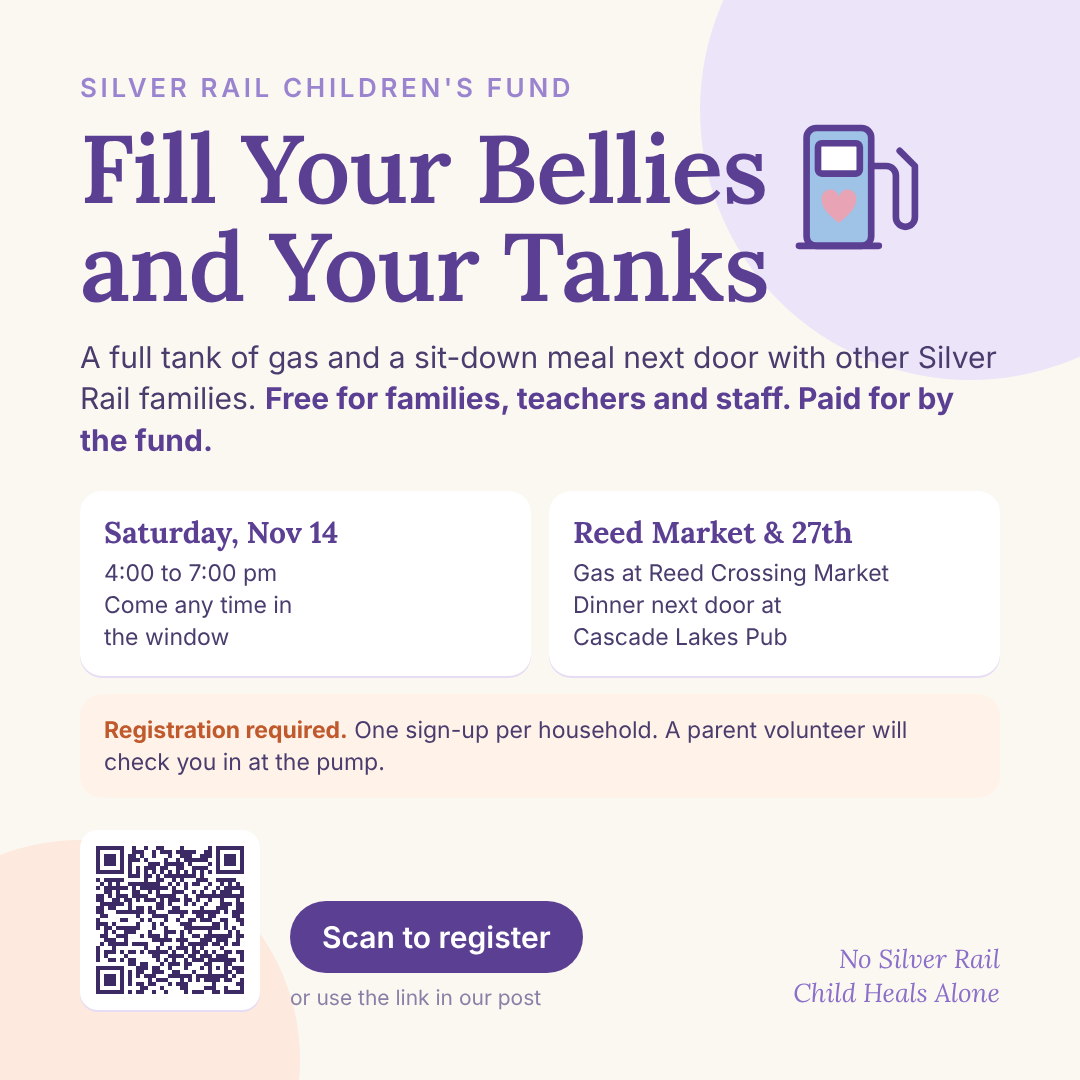
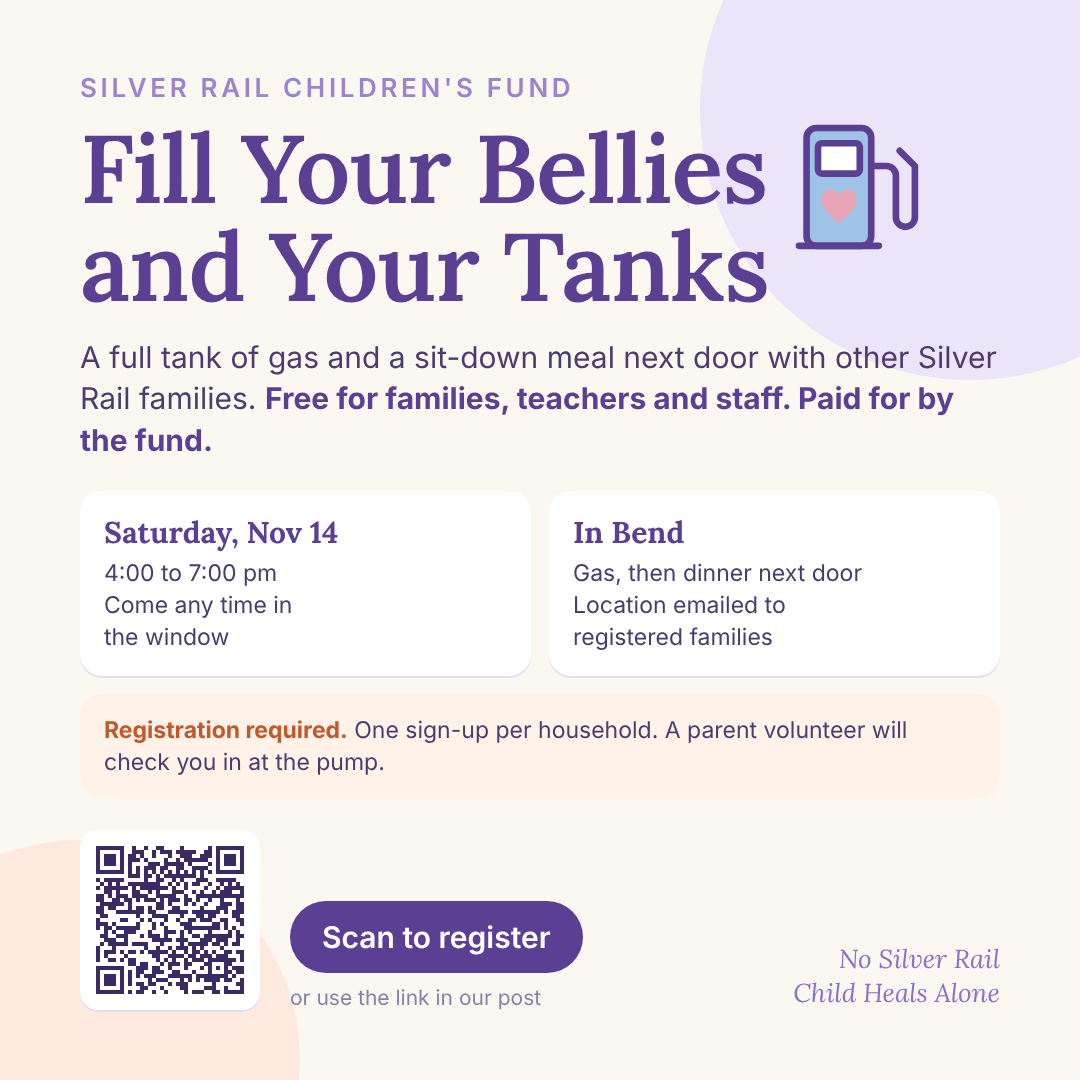
Fill Your Bellies: remove station and pub names/addresses from public pages and graphics
Claude-Session: https://claude.ai/code/session_01H4F1UFNJLbfFA3nSi3aQ8Y

Changed region(s): [[0.5194, 0.4583, 0.825, 0.6111]]

diff --git a/fill-your-tank.html b/fill-your-tank.html
@@ -4,11 +4,11 @@
 <meta charset="utf-8">
 <meta name="viewport" content="width=device-width, initial-scale=1">
 <title>Fill Your Bellies and Your Tanks — Silver Rail Children's Fund</title>
-<meta name="description" content="Saturday, Nov 14, 4 to 7 pm. Registration required. Silver Rail families, teachers and staff fill their gas tank at Reed Crossing Market and share a meal next door at Cascade Lakes Pub on Reed Market in Bend, paid for by the Silver Rail Children's Fund.">
+<meta name="description" content="Saturday, Nov 14, 4 to 7 pm in Bend. Registration required. Silver Rail families, teachers and staff fill their gas tank and share a meal with other Silver Rail families, paid for by the Silver Rail Children's Fund.">
 <meta name="theme-color" content="#5B3F93">
 <link rel="canonical" href="https://silverrailchildrensfund.org/fill-your-tank.html">
 <meta property="og:title" content="Fill Your Bellies and Your Tanks — Silver Rail Children's Fund">
-<meta property="og:description" content="Saturday, Nov 14, 4 to 7 pm. Registration required. Silver Rail families, teachers and staff fill their gas tank at Reed Crossing Market and share a meal next door at Cascade Lakes Pub on Reed Market in Bend, paid for by the Silver Rail Children's Fund.">
+<meta property="og:description" content="Saturday, Nov 14, 4 to 7 pm in Bend. Registration required. Silver Rail families, teachers and staff fill their gas tank and share a meal with other Silver Rail families, paid for by the Silver Rail Children's Fund.">
 <meta property="og:type" content="website">
 <meta property="og:url" content="https://silverrailchildrensfund.org/fill-your-tank.html">
 <meta property="og:image" content="https://silverrailchildrensfund.org/assets/fill-your-tank-square.png">
@@ -124,27 +124,26 @@ footer.sf .sf-legal a{color:var(--ink-2)}
 <div class="bar"><a href="https://www.gofundme.com/f/silver-rail-kids-fun-fund-nve6k" target="_blank" rel="noopener">Give to the Kids Fun Fund &rarr;</a><span class="barx"> &nbsp;&middot;&nbsp; 100% to the kids</span></div>
 
 <main>
-<div class="hero"><div class="wrap"><div class="eyebrow">Saturday, Nov 14 · 4 to 7 pm · registration required · paid for by the fund</div><h1>Fill Your Bellies and Your Tanks</h1><p class="lede">Our kids made it through their first week back. To help Silver Rail families unwind, the Silver Rail Children's Fund is filling gas tanks at Reed Crossing Market and covering a meal next door at Cascade Lakes Pub on Reed Market. Come gather with us.</p><a class="btn" href="#register">Register now</a> &nbsp; <a href="family-assistance.html" style="font-weight:600">Gas &amp; bill help any day →</a></div></div>
+<div class="hero"><div class="wrap"><div class="eyebrow">Saturday, Nov 14 · 4 to 7 pm · registration required · paid for by the fund</div><h1>Fill Your Bellies and Your Tanks</h1><p class="lede">Our kids made it through their first week back. To help Silver Rail families unwind, the Silver Rail Children's Fund is filling gas tanks and covering a meal right next door at a local pub. Come gather with us.</p><a class="btn" href="#register">Register now</a> &nbsp; <a href="family-assistance.html" style="font-weight:600">Gas &amp; bill help any day →</a></div></div>
 <section class="post"><div class="wrap flyer"><div>
 <h2>The details</h2>
 <ul>
 <li><b>When:</b> Saturday, November 14, 4:00 to 7:00 pm. Come any time in that window.</li>
 <li><b>Registration:</b> Required. One sign-up per household, so we know who's coming and can tell the station and the pub. <a href="#register">Register below →</a></li>
-<li><b>Gas:</b> <a href="https://maps.google.com/?q=Reed+Crossing+Market,+21185+SE+Reed+Market+Rd,+Bend,+OR+97702" target="_blank" rel="noopener">Reed Crossing Market</a>, 21185 SE Reed Market Rd, Bend (the Shell station at Reed Market and 27th).</li>
-<li><b>Food:</b> <a href="https://maps.google.com/?q=Cascade+Lakes+Pub+on+Reed+Market,+21175+SE+Reed+Market+Rd,+Bend,+OR+97702" target="_blank" rel="noopener">Cascade Lakes Pub on Reed Market</a>, 21175 SE Reed Market Rd, Bend, right next door.</li>
+<li><b>Where:</b> A gas station in Bend, with dinner at a pub right next door. To keep this safe for our families, we email the exact location to registered families only.</li>
 <li><b>Who:</b> Silver Rail families, teachers, and staff.</li>
 <li><b>Cost:</b> Nothing. The fund pays the gas station and the pub directly.</li>
 </ul>
 
 <h2>How it works</h2>
 <ol class="steps">
-<li><b>Register first.</b> Fill out the short form below. Registration is required.</li>
+<li><b>Register first.</b> Fill out the short form below. Registration is required, and we'll email you the location.</li>
 <li><b>Come by between 4 and 7 pm.</b> A parent volunteer from the fund will check you in at the pump.</li>
-<li><b>Fill up.</b> The fund pays Reed Crossing Market directly for your tank. No cash changes hands, and nothing counts against benefits you already receive. <a href="why-we-pay-providers.html">Why we work this way →</a></li>
-<li><b>Stay for a meal.</b> Walk next door to Cascade Lakes Pub, sit down with other Silver Rail families, and take a breath. The fund covers it.</li>
+<li><b>Fill up.</b> The fund pays the station directly for your tank. No cash changes hands, and nothing counts against benefits you already receive. <a href="why-we-pay-providers.html">Why we work this way →</a></li>
+<li><b>Stay for a meal.</b> Walk next door to the pub, sit down with other Silver Rail families, and take a breath. The fund covers it.</li>
 </ol>
 </div>
-<a href="assets/fill-your-tank-square.png" target="_blank" rel="noopener"><img src="assets/fill-your-tank-square.png" alt="Fill Your Bellies and Your Tanks. Saturday, Nov 14, 4 to 7 pm. Gas at Reed Crossing Market and dinner next door at Cascade Lakes Pub. Free for Silver Rail families, teachers and staff. Registration required." loading="lazy"></a>
+<a href="assets/fill-your-tank-square.png" target="_blank" rel="noopener"><img src="assets/fill-your-tank-square.png" alt="Fill Your Bellies and Your Tanks. Saturday, Nov 14, 4 to 7 pm in Bend. Gas and dinner, free for Silver Rail families, teachers and staff. Registration required; location emailed to registered families." loading="lazy"></a>
 </div></section>
 <section id="register" class="post" style="padding-top:8px"><div class="wrap">
 <div class="eyebrow">Registration required · one short form</div>

diff --git a/index.html b/index.html
@@ -389,9 +389,9 @@ footer.sf .sf-legal a{color:var(--ink-2)}
 <section id="fill-your-tank" style="padding:40px 0 0;border:0">
   <div class="wrap">
     <div style="background:#fff;border:1px solid var(--rule);border-top:4px solid var(--gold);border-radius:16px;padding:24px 26px">
-      <div class="eyebrow">Saturday, Nov 14 · 4 to 7 pm · Reed Market Rd, Bend · registration required · paid for by the fund</div>
+      <div class="eyebrow">Saturday, Nov 14 · 4 to 7 pm · Bend · registration required · paid for by the fund</div>
       <h2 style="margin-bottom:.3em">Fill Your Bellies and Your Tanks</h2>
-      <p>After our kids' first week back, come unwind with us. The fund is filling gas tanks for Silver Rail families at Reed Crossing Market and covering a meal next door at Cascade Lakes Pub on Reed Market. Need gas or bill help on another day? We can help with that too, privately.</p>
+      <p>After our kids' first week back, come unwind with us. The fund is filling gas tanks for Silver Rail families and covering a meal right next door. Registration required; we email the location to registered families. Need gas or bill help on another day? We can help with that too, privately.</p>
       <p style="margin:0"><a class="btn" href="fill-your-tank.html#register">Register</a> &nbsp; <a href="family-assistance.html" style="font-weight:600">Gas &amp; bill help →</a></p>
     </div>
   </div>
